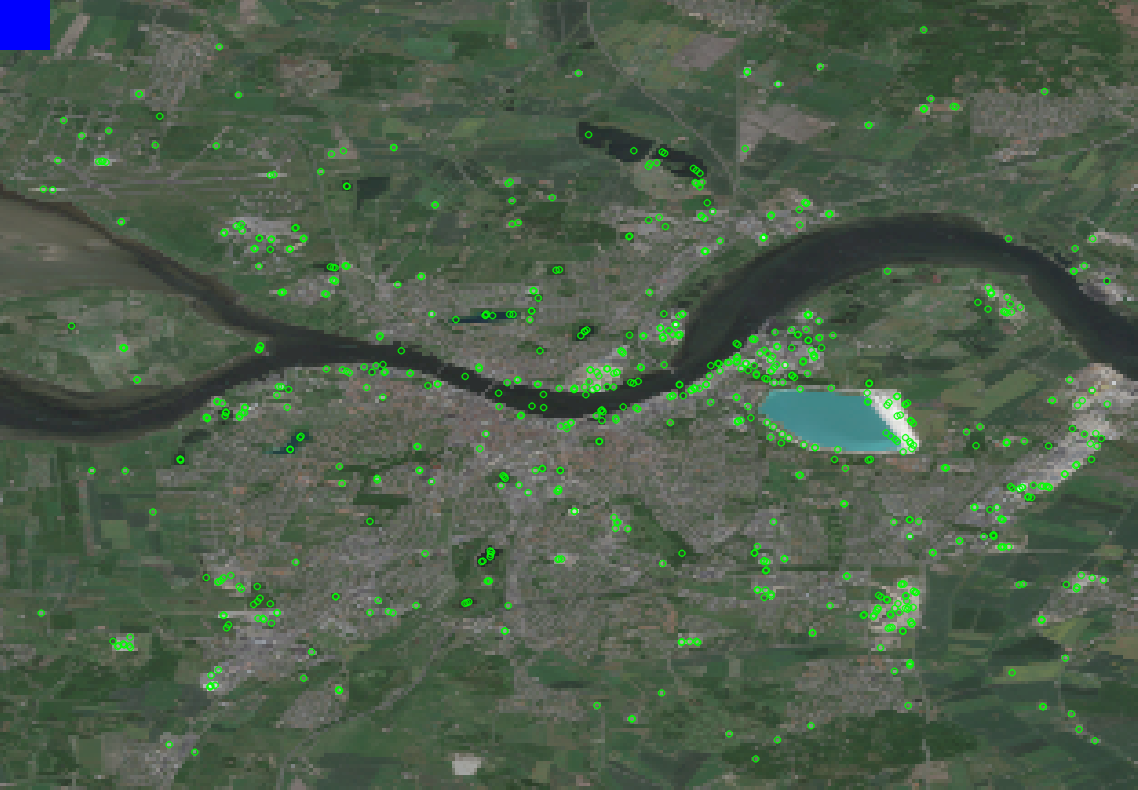
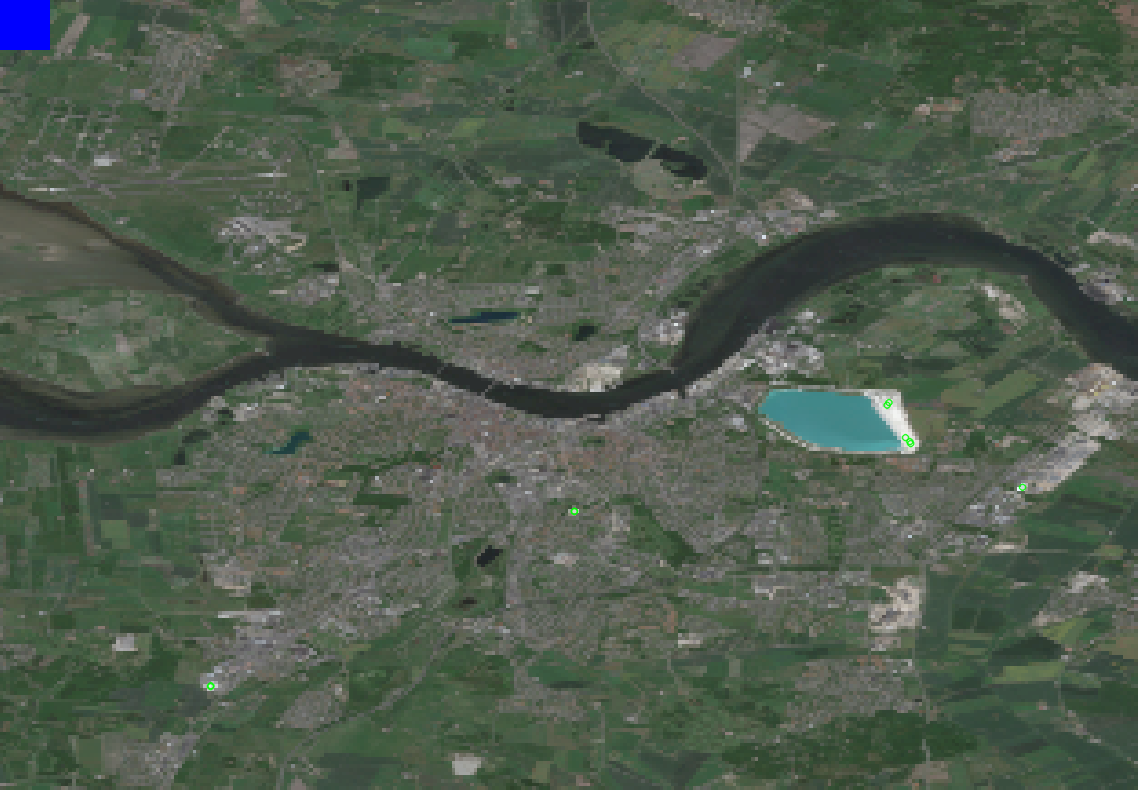
matching "works"

diff --git a/src/main.rs b/src/main.rs
@@ -13,10 +13,10 @@ use ndarray::{Array1, ArrayView1, ArrayView3};
 use opencv::{self as cv, prelude::*};
 fn main() -> Result<()> { 
     // Read image
-    let img = cv::imgcodecs::imread("./Data/image22.png", cv::imgcodecs::IMREAD_COLOR)?;
-    let img2 = cv::imgcodecs::imread("./Data/image11.png", cv::imgcodecs::IMREAD_COLOR)?;
+    let img = cv::imgcodecs::imread("./Data/9.png", cv::imgcodecs::IMREAD_COLOR)?;
+    let img2 = cv::imgcodecs::imread("./Data/10.png", cv::imgcodecs::IMREAD_COLOR)?;
     // Use Orb
-    let mut orbActual = <cv::features2d::ORB>::create(
+    let mut orba = <cv::features2d::ORB>::create(
         50,
         1.2,
         8,
@@ -36,7 +36,7 @@ fn main() -> Result<()> {
         4,
         4,
         opencv::features2d::KAZE_DiffusivityType::DIFF_PM_G2,
-        0,
+        10,
     )?;
 
     let mut orb_keypoints = cv::core::Vector::default();
@@ -107,20 +107,40 @@ fn main() -> Result<()> {
     
 
     let mut matches = opencv::types::VectorOfDMatch::new();
-    let mut bf_matcher = cv::features2d::BFMatcher::new(NORM_HAMMING, true)?;
+    let mut bf_matcher = cv::features2d::BFMatcher::new(cv::core::NORM_L1, true)?;
+
+    let mut flann_matcher = cv::features2d::FlannBasedMatcher::new_def()?;
+
+    // The matching algorithm
 	bf_matcher.train_match_def(&orb_desc, &orb_desc2, &mut matches).unwrap();
 
     println!("Matches: {:#?}", matches);
 
-    let mut matches1to2 = opencv::core::Vector::new();
-    let mut out_img;
-    opencv::features2d::draw_matches(&img, &orb_keypoints, &img2, &orb_keypoints2, &matches1to2, &mut out_img, )
+    //let matches1to2 = opencv::core::Vector::new();
+    let mut out_img = cv::core::Mat::default();
+    let matches_mask = cv::core::Vector::new();
+
+    cv::features2d::draw_matches(
+        &img,
+        &orb_keypoints,
+        &img2,
+        &orb_keypoints2,
+        &matches,
+        &mut out_img,
+        opencv::core::VecN::all(-1.0),
+        opencv::core::VecN::all(-1.0),
+        &matches_mask,
+        cv::features2d::DrawMatchesFlags::NOT_DRAW_SINGLE_POINTS
+     )?;
    
 
 
     // Write image using OpenCV
     cv::imgcodecs::imwrite("./tmp.png", &dst_img, &cv::core::Vector::default())?;
     cv::imgcodecs::imwrite("./tmp2.png", &dst_img2, &cv::core::Vector::default())?;
+
+    cv::imgcodecs::imwrite("./tmp3.png", &out_img, &cv::core::Vector::default())?;
+
     // Convert :: cv::core::Mat -> ndarray::ArrayView3
     let a = dst_img.try_as_array()?;
     // Convert :: ndarray::ArrayView3 -> RgbImage
